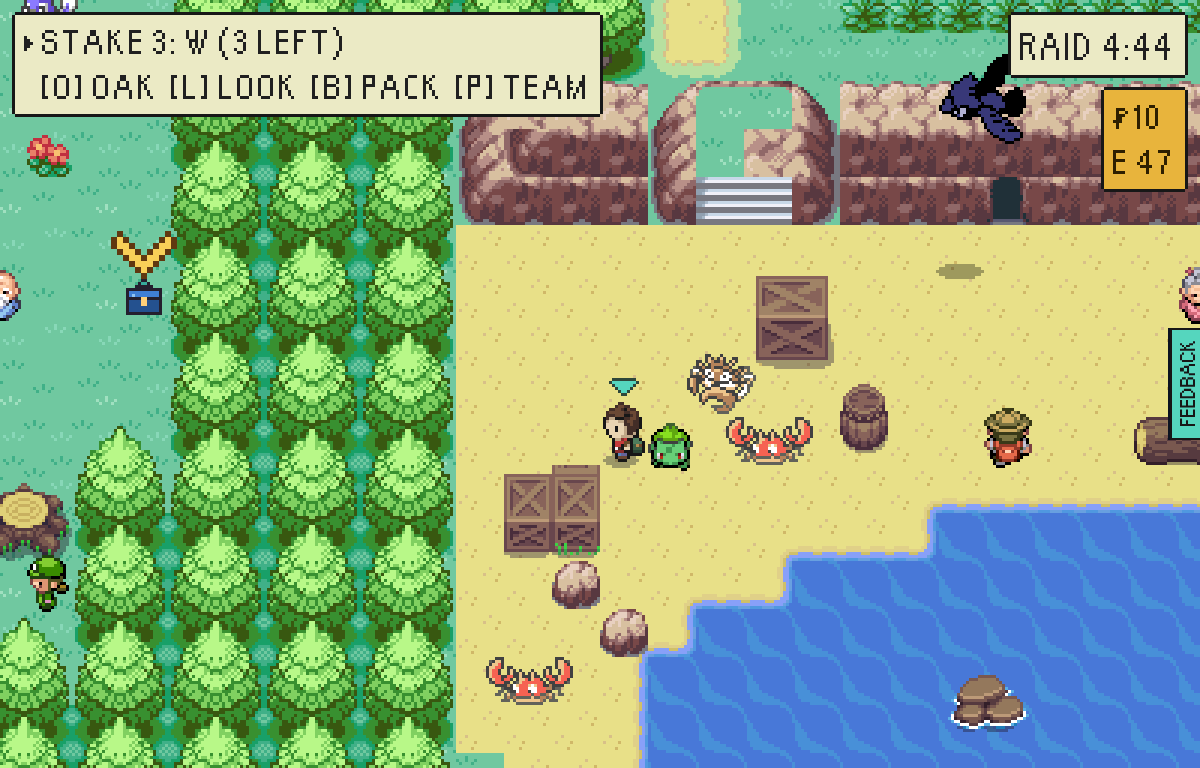
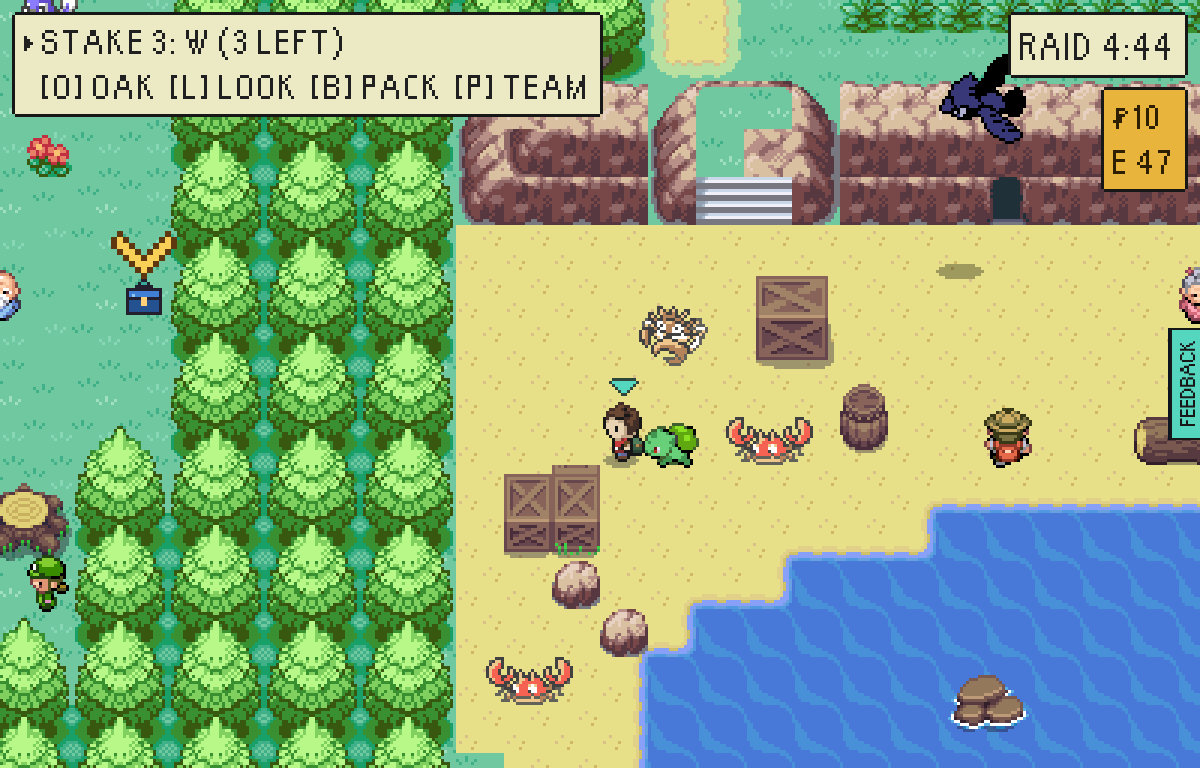
The kite thief sits clear of the gap by the crates: in its mouth it shut two tiles of sand in behind a Krabby's beat, and the placement test counts beats as the sweep does

Changed region(s): [[0.5242, 0.4062, 0.6475, 0.625]]

diff --git a/src/game/world/secrets.test.ts b/src/game/world/secrets.test.ts
@@ -11,6 +11,7 @@ import { winRateAgainst } from './encounterMeasure';
 import { HUNTER_IDLE_STEP_MS } from './hunter';
 import { stepDistances } from './mapStructure';
 import { readMapFile, MAP_FILE_LIMITS, type MapFile } from './mapFile';
+import { idleBeatTiles } from './npcIdle';
 import { entitiesForMap } from './npcs';
 import { builtInFileMap } from './playerMaps';
 import { dayNumber, RUMOURS, rumourFrom, type RumourFact } from './rumours';
@@ -190,7 +191,14 @@ describe("the vale's secrets", () => {
   it.each(
     SECRETS.filter((secret) => secret.nook === 'figure' && secret.wave >= 3).map((secret) => [secret.name, secret] as const),
   )('%s shuts no ground in by standing where it stands', (_name, secret) => {
-    const standing = new Set(entities.map((entity) => `${entity.position.x},${entity.position.y}`));
+    // Everybody where they stand and on every tile of their beat, as the
+    // structure sweep counts them (`mapStructure.testkit.ts`): THE KITE THIEF
+    // first sat in the mouth of two tiles of sand whose only other way in was
+    // a Krabby's beat, which standing places alone called open, and the
+    // sweep - on a pull request's checks only - called shut.
+    const standing = new Set(
+      entities.filter((entity) => !entity.boulder && !entity.barrier).flatMap((entity) => idleBeatTiles(entity).map((tile) => `${tile.x},${tile.y}`)),
+    );
     for (const tile of nookTiles(secret).filter((each) => !standing.has(`${each.x},${each.y}`))) {
       const room = stepDistances(map.collision, tile, standing).reduce((sum, row) => sum + row.filter((steps) => steps >= 0).length, 0);
       expect(room, `${secret.name} shuts in the ground at ${tile.x},${tile.y}: ${room} tiles`).toBeGreaterThanOrEqual(40);

diff --git a/tools/mapcraft/worlds/greystoneVale/gullStrand.ts b/tools/mapcraft/worlds/greystoneVale/gullStrand.ts
@@ -315,7 +315,9 @@ export function gullStrand(): MapcraftResult {
         { x: 34, y: 5, species: 'psyduck', level: 8 },
         { x: 3, y: 42, species: 'krabby', level: 9 },
         // THE KITE THIEF (`world/secrets.ts`): on the sand under the headland every raid, until it is had.
-        { x: 7, y: 36, species: 'kingler', level: 20, secret: 'the-kite-thief' },
+        // Clear of the gap between the crates and the barrel: sat in its mouth, at 7,36, it shut two
+        // tiles of sand in behind itself and the Krabby's beat.
+        { x: 6, y: 35, species: 'kingler', level: 20, secret: 'the-kite-thief' },
         { x: 8, y: 37, species: 'krabby', beat: { everyMs: 1500, roam: [[1, 0]] } },
         { x: 25, y: 42, species: 'krabby', beat: { everyMs: 1300, roam: [[0, 1]] } },
         { x: 24, y: 36, species: 'staryu', level: 9 },

diff --git a/docs/screens/rare-finds-wave-5/README.md b/docs/screens/rare-finds-wave-5/README.md
@@ -111,9 +111,9 @@ node tools/playtest/raid.mjs <url> ...same... --insertion=greystone-vale-the-str
   --team=butterfree:28::shiny --lead=Butterfree --steps=walk:140:202,shot:light,read:140:201:left
 # the kite thief: nothing flying, then a Pidgey in front
 node tools/playtest/raid.mjs <url> ...same... --insertion=greystone-vale-the-strand --level=30 --avoid-watch \
-  --steps=walk:133:229,shot:sand,read:140:230:right:3,read:134:228:right
+  --steps=walk:133:229,shot:sand,read:140:230:right:3,read:133:227:right
 node tools/playtest/raid.mjs <url> ...same... --insertion=greystone-vale-the-strand --level=30 --avoid-watch \
-  --team=pidgey:12 --lead=Pidgey --steps=read:134:228:right
+  --team=pidgey:12 --lead=Pidgey --steps=read:133:227:right
 # the clue lines themselves: read on to the notice's second line, and each person's third
 node tools/playtest/raid.mjs <url> ...same... --insertion=greystone-vale-stepping-stones --level=30 --avoid-watch \
   --steps=read:157:166:left:2,read:157:167:left:3
